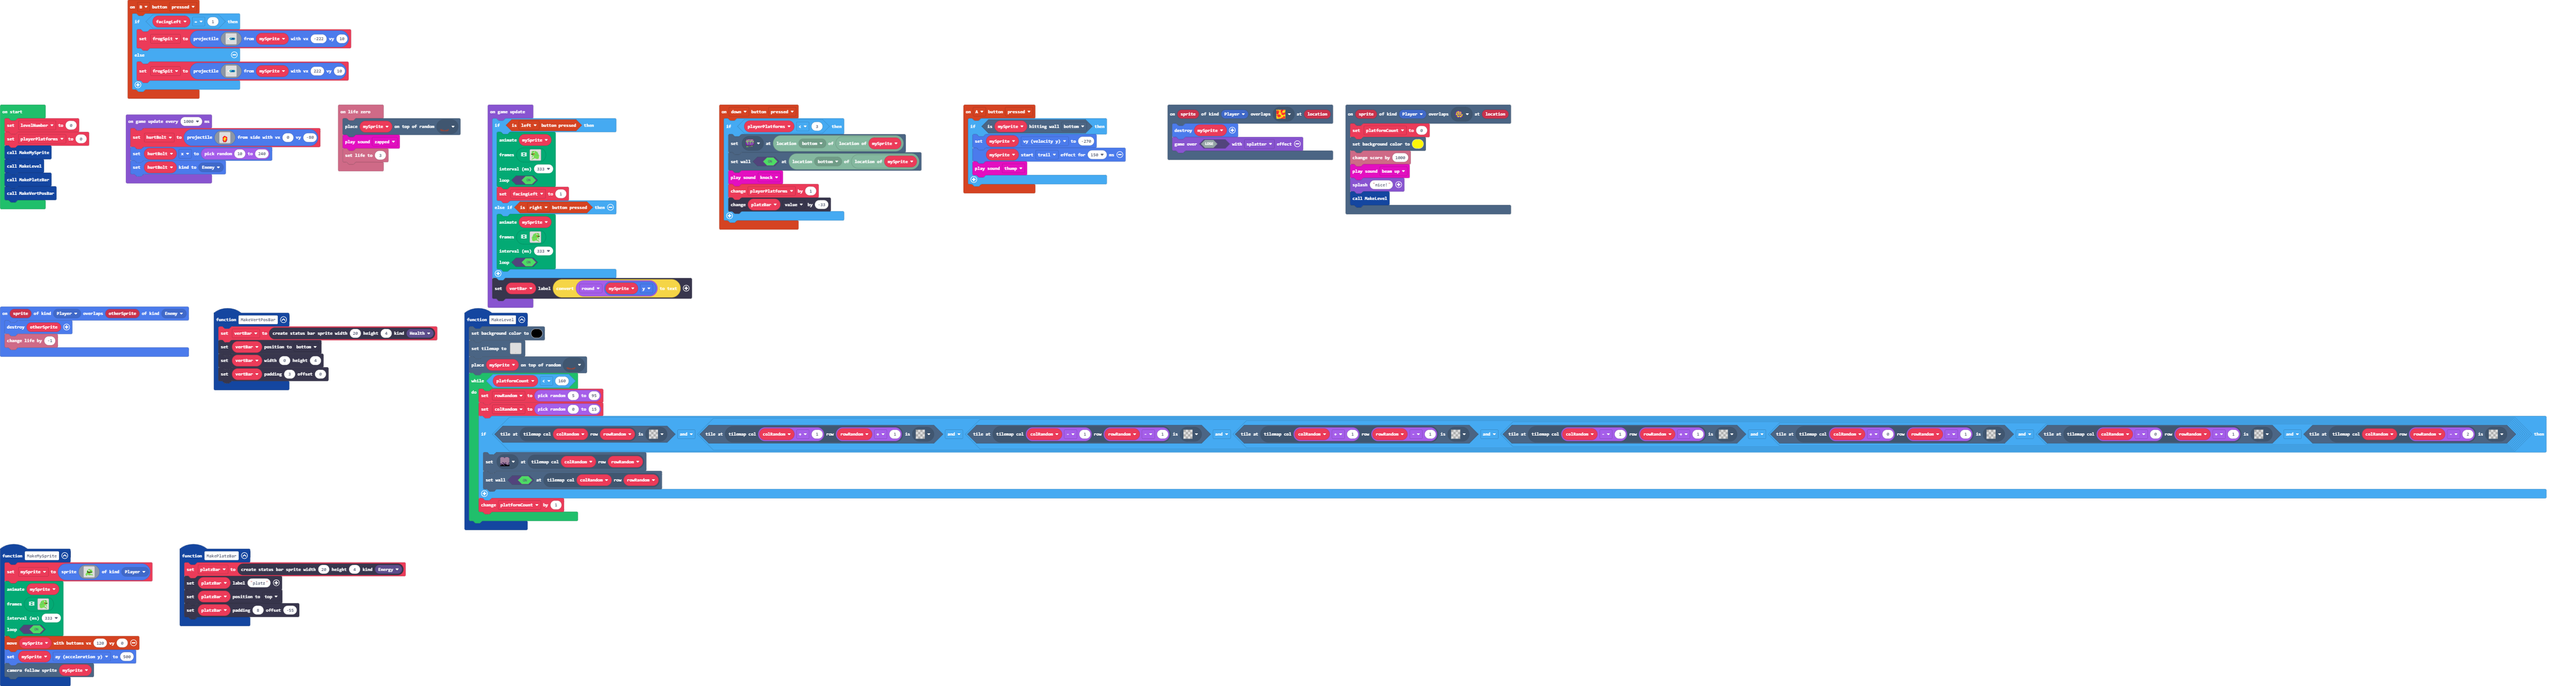
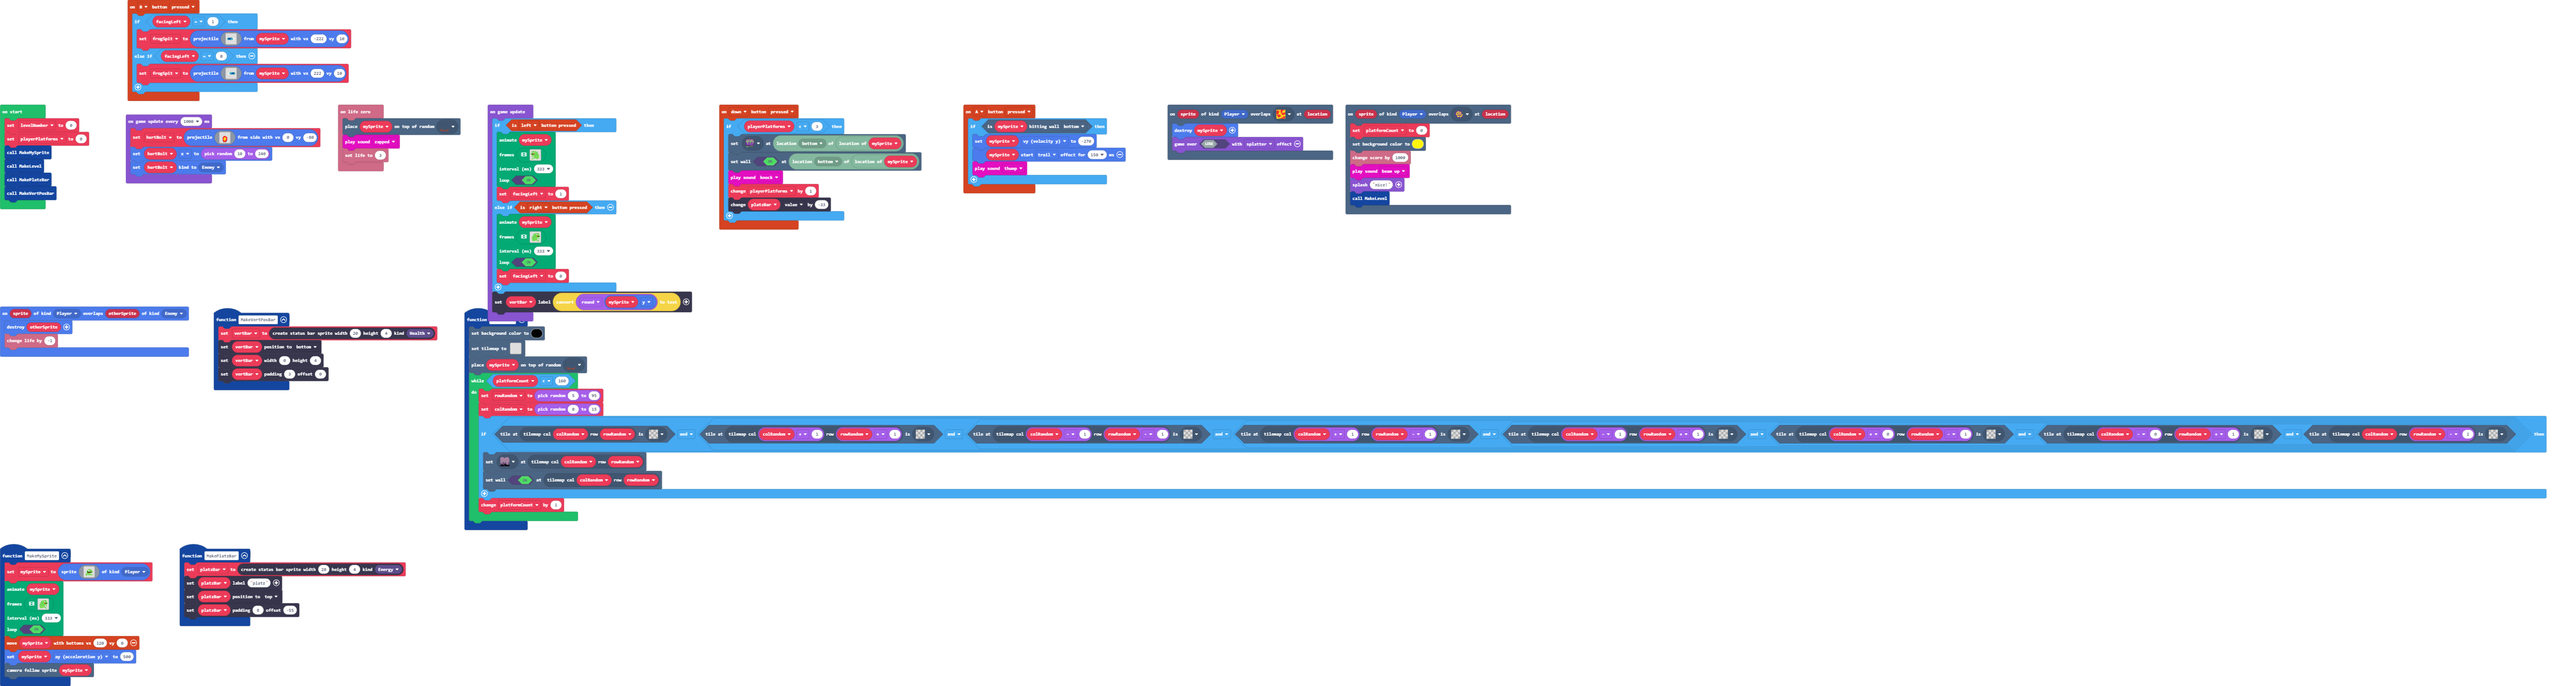
added frog spit

Changed region(s): [[0.1875, 0.3666, 0.2812, 0.4889], [0.0312, 0.0611, 0.1562, 0.1528]]

diff --git a/main.ts b/main.ts
@@ -15,10 +15,10 @@ controller.B.onEvent(ControllerButtonEvent.Pressed, function () {
             . . . . . . . . . . . . . . . . 
             . . . . . . . . . . . . . . . . 
             . . . . . . . . . . . . . . . . 
-            . . . 1 1 1 6 6 6 6 6 6 6 6 . . 
-            . . 1 1 6 6 6 9 9 8 8 8 8 6 6 . 
-            . 1 1 1 1 6 9 8 8 8 8 8 8 6 6 . 
-            . . . . 1 1 6 6 6 6 6 6 6 6 . . 
+            . . 6 6 6 6 6 6 6 6 1 1 . . . . 
+            . 6 6 8 8 8 8 8 8 9 6 1 1 1 1 . 
+            . 6 6 8 8 8 8 9 9 6 6 6 1 1 . . 
+            . . 6 6 6 6 6 6 6 6 1 1 1 . . . 
             . . . . . . . . . . . . . . . . 
             . . . . . . . . . . . . . . . . 
             . . . . . . . . . . . . . . . . 
@@ -26,7 +26,7 @@ controller.B.onEvent(ControllerButtonEvent.Pressed, function () {
             . . . . . . . . . . . . . . . . 
             . . . . . . . . . . . . . . . . 
             `, mySprite, -222, 10)
-    } else {
+    } else if (facingLeft == 0) {
         frogSpit = sprites.createProjectileFromSprite(img`
             . . . . . . . . . . . . . . . . 
             . . . . . . . . . . . . . . . . 
@@ -265,6 +265,7 @@ game.onUpdate(function () {
         333,
         true
         )
+        facingLeft = 0
     }
     vertBar.setLabel(convertToText(Math.round(mySprite.y)))
 })
